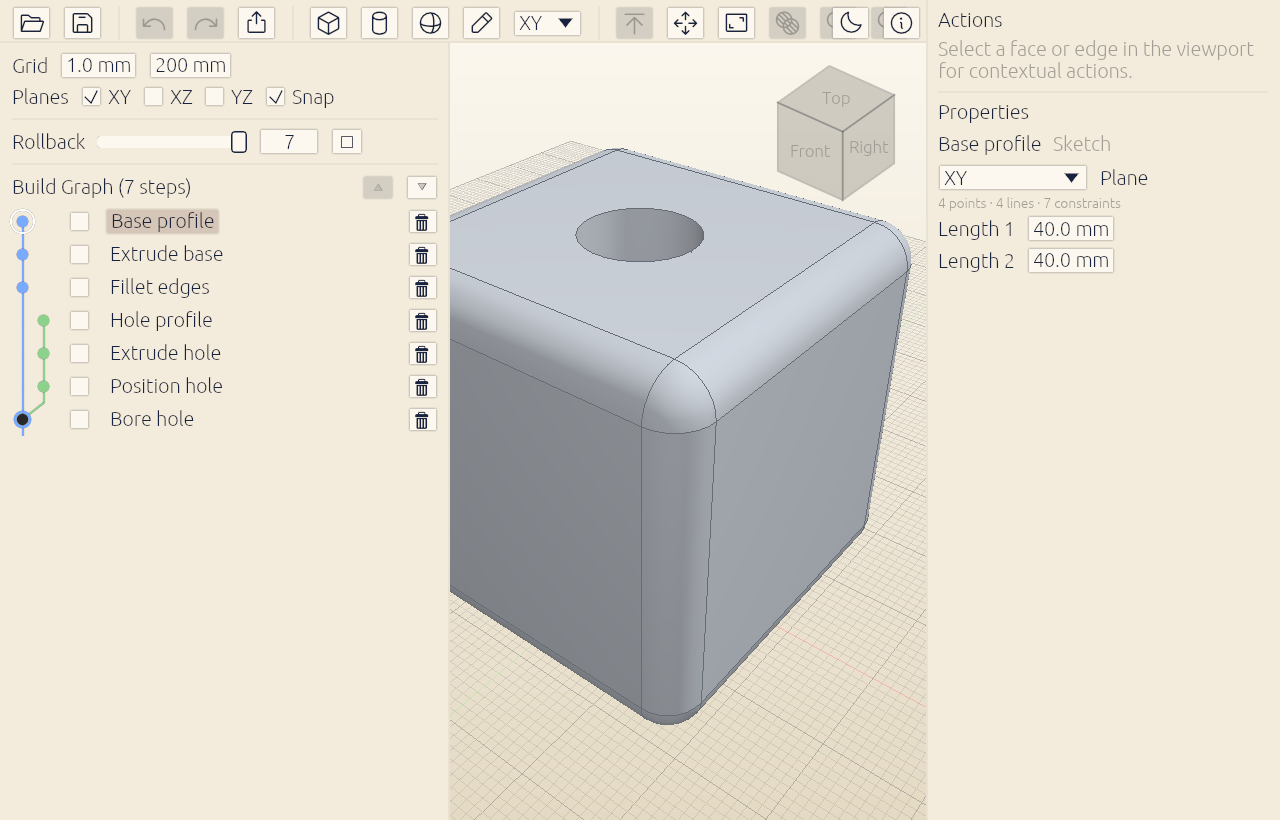
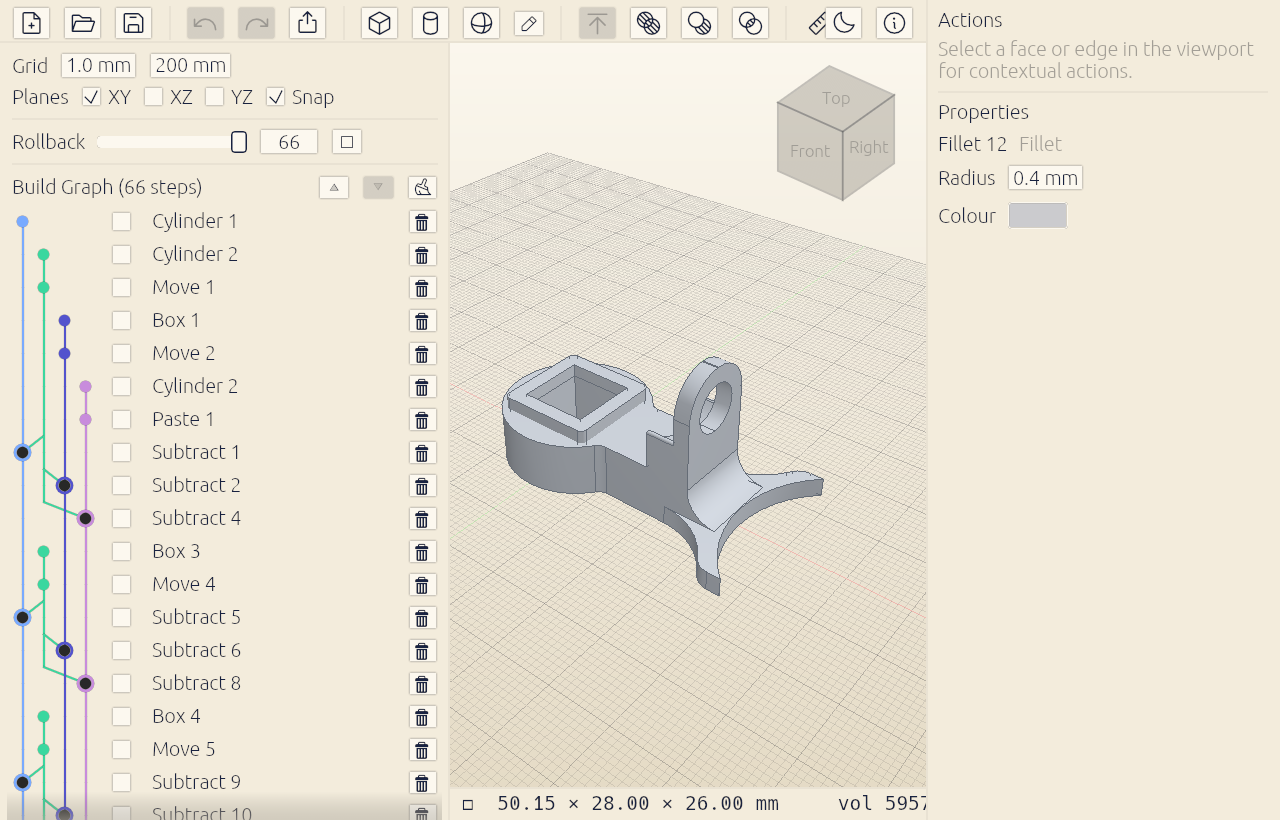
Home-page hero: the robot gauge bracket, shot via --screenshot <project.cdt>
--screenshot now takes an optional .cdt path: it loads the project,
selects the tip feature, and hand-frames the whole model with margin
for the side panels (the automatic framing fits the full window and
cropped a wide model). screenshot() honours requested_camera(), so a
demo — or a project's saved view — can compose the shot. The docs and
README hero now show a real part: a 66-step robot gauge bracket.

diff --git a/docs/index.html b/docs/index.html
@@ -92,7 +92,7 @@
   <!-- ======================= SCREENSHOT ======================= -->
   <section class="shot" aria-label="Cadette in action">
     <img src="modeler-light.png" width="1280" height="820" loading="lazy"
-         alt="The Cadette modeler: the Build Graph panel on the left listing seven parametric steps, a filleted part with a bored hole in the 3D viewport, and the sketch properties panel on the right.">
+         alt="The Cadette modeler: the Build Graph on the left tracing a 66-step parametric history as colored lanes, a robot gauge bracket in the 3D viewport with its live measurements in the status bar, and the fillet properties panel on the right.">
   </section>
 
   <!-- ========================= FEATURES ========================= -->

diff --git a/app/src/demos.rs b/app/src/demos.rs
@@ -375,8 +375,55 @@ pub fn run_if_flagged(mut modeler: Modeler) -> anyhow::Result<Option<Modeler>> {
     }
 
     if flag("--screenshot") {
-        // Pre-select the constraint sketch so the screenshot shows its editor.
-        modeler.ui.selected = modeler.doc.history.features().first().map(|f| f.id);
+        // An optional .cdt path after the flag loads that project first —
+        // for shots of a real model (e.g. the home-page hero). Default: the
+        // built-in part with its first sketch selected to show the editor.
+        let project = args
+            .iter()
+            .position(|a| a == "--screenshot")
+            .and_then(|i| args.get(i + 1))
+            .filter(|a| !a.starts_with("--"));
+        match project {
+            Some(path) => {
+                modeler
+                    .load_project_from(path)
+                    .map_err(|e| anyhow::anyhow!("load {path}: {e}"))?;
+                // Select the tip so the Properties panel is populated.
+                modeler.ui.selected = modeler.doc.history.features().last().map(|f| f.id);
+                // Frame the whole model with extra margin: the automatic
+                // screenshot framing fits the full window, but the side
+                // panels cover much of its width and crop a wide model.
+                let _ = modeler.mesh();
+                let (mut min, mut max) = ([f64::INFINITY; 3], [f64::NEG_INFINITY; 3]);
+                for (bmin, bmax) in &modeler.body_bounds {
+                    for k in 0..3 {
+                        min[k] = min[k].min(bmin[k]);
+                        max[k] = max[k].max(bmax[k]);
+                    }
+                }
+                if min[0].is_finite() {
+                    let radius = (0..3)
+                        .map(|k| (max[k] - min[k]) * 0.5)
+                        .map(|h| h * h)
+                        .sum::<f64>()
+                        .sqrt()
+                        .max(1e-3);
+                    modeler.camera_request = Some(cdt_render::CameraPose {
+                        target: [
+                            ((min[0] + max[0]) * 0.5) as f32,
+                            ((min[1] + max[1]) * 0.5) as f32,
+                            ((min[2] + max[2]) * 0.5) as f32,
+                        ],
+                        yaw: -0.9,
+                        pitch: 0.6,
+                        distance: (radius * 4.8) as f32,
+                    });
+                }
+            }
+            None => {
+                modeler.ui.selected = modeler.doc.history.features().first().map(|f| f.id);
+            }
+        }
         shoot(modeler, "out/modeler.png")?;
         return Ok(None);
     }

diff --git a/crates/render/src/screenshot.rs b/crates/render/src/screenshot.rs
@@ -28,6 +28,11 @@ pub fn screenshot(
 
     let mesh = controller.mesh();
     let mut camera = frame_camera(&mesh.vertices);
+    // A controller-supplied pose (a loaded project's saved view, or a demo's
+    // hand-framed composition) overrides the automatic framing.
+    if let Some(pose) = controller.requested_camera() {
+        camera.set_pose(pose);
+    }
     let mut scene = Scene::new(device.clone(), queue.clone(), format, &mesh);
     let _ = &mut scene;
 

diff --git a/README.md b/README.md
@@ -6,7 +6,7 @@ Cadette is free, open-source parametric CAD for makers — Tinkercad's simplicit
 Shapr3D's spunk, FreeCAD's kernel, nobody's subscription. Model a part, change
 any step later, and export a clean STL for your printer.
 
-![The Cadette modeler: the Build Graph history on the left, a filleted part in the viewport, the properties panel on the right](docs/modeler-light.png)
+![The Cadette modeler: the Build Graph tracing a 66-step parametric history on the left, a robot gauge bracket in the viewport, the properties panel on the right](docs/modeler-light.png)
 
 More at **[cadette.org](https://cadette.org)**.
 
